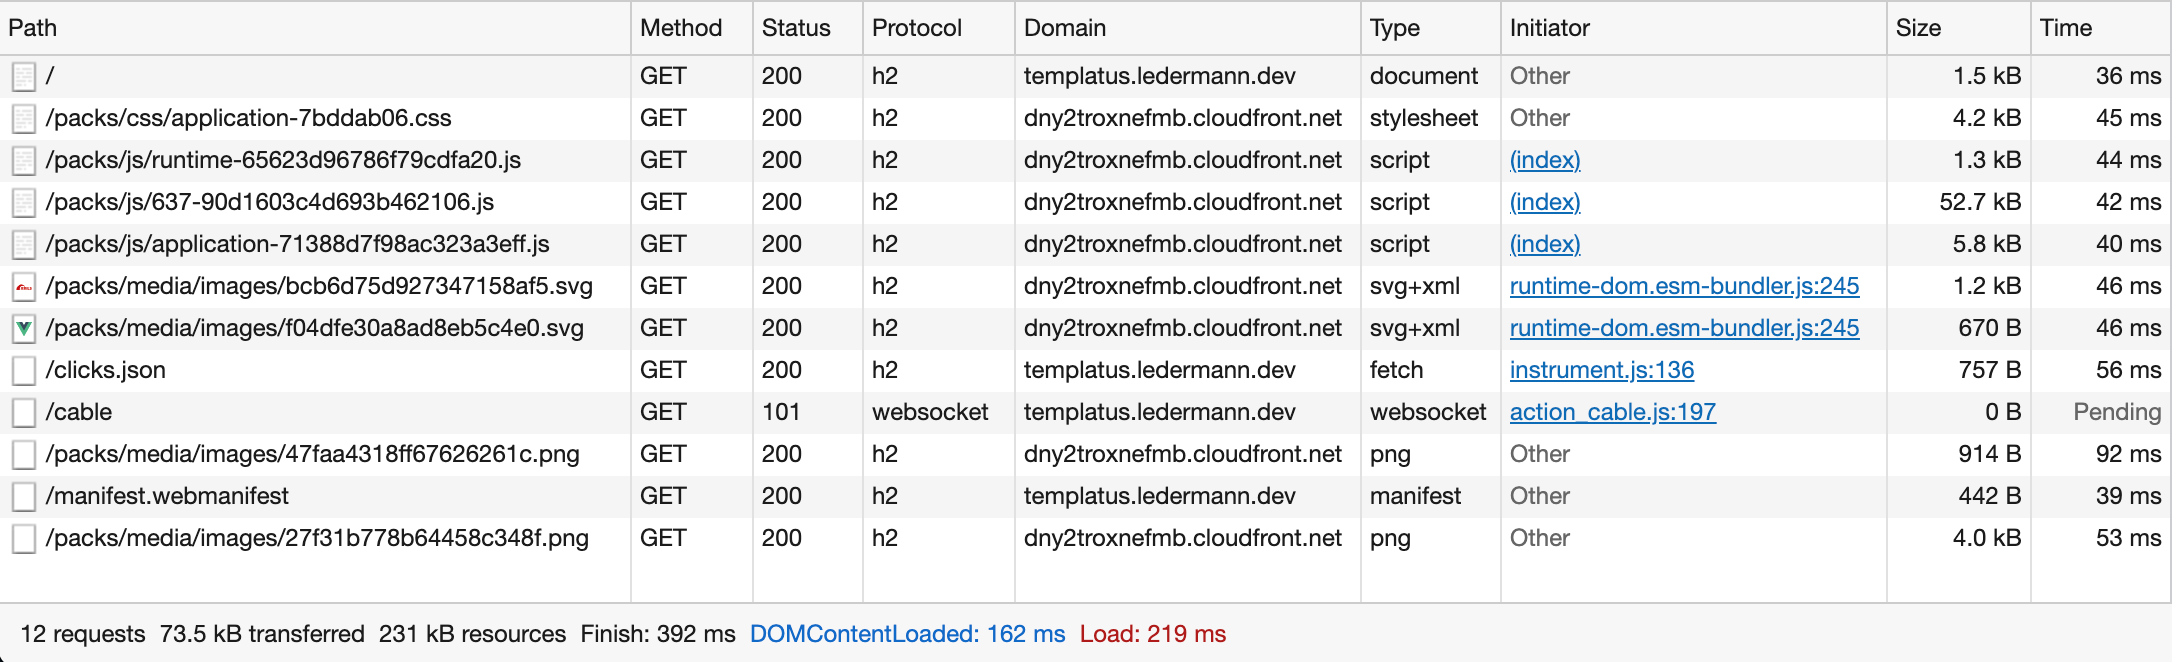
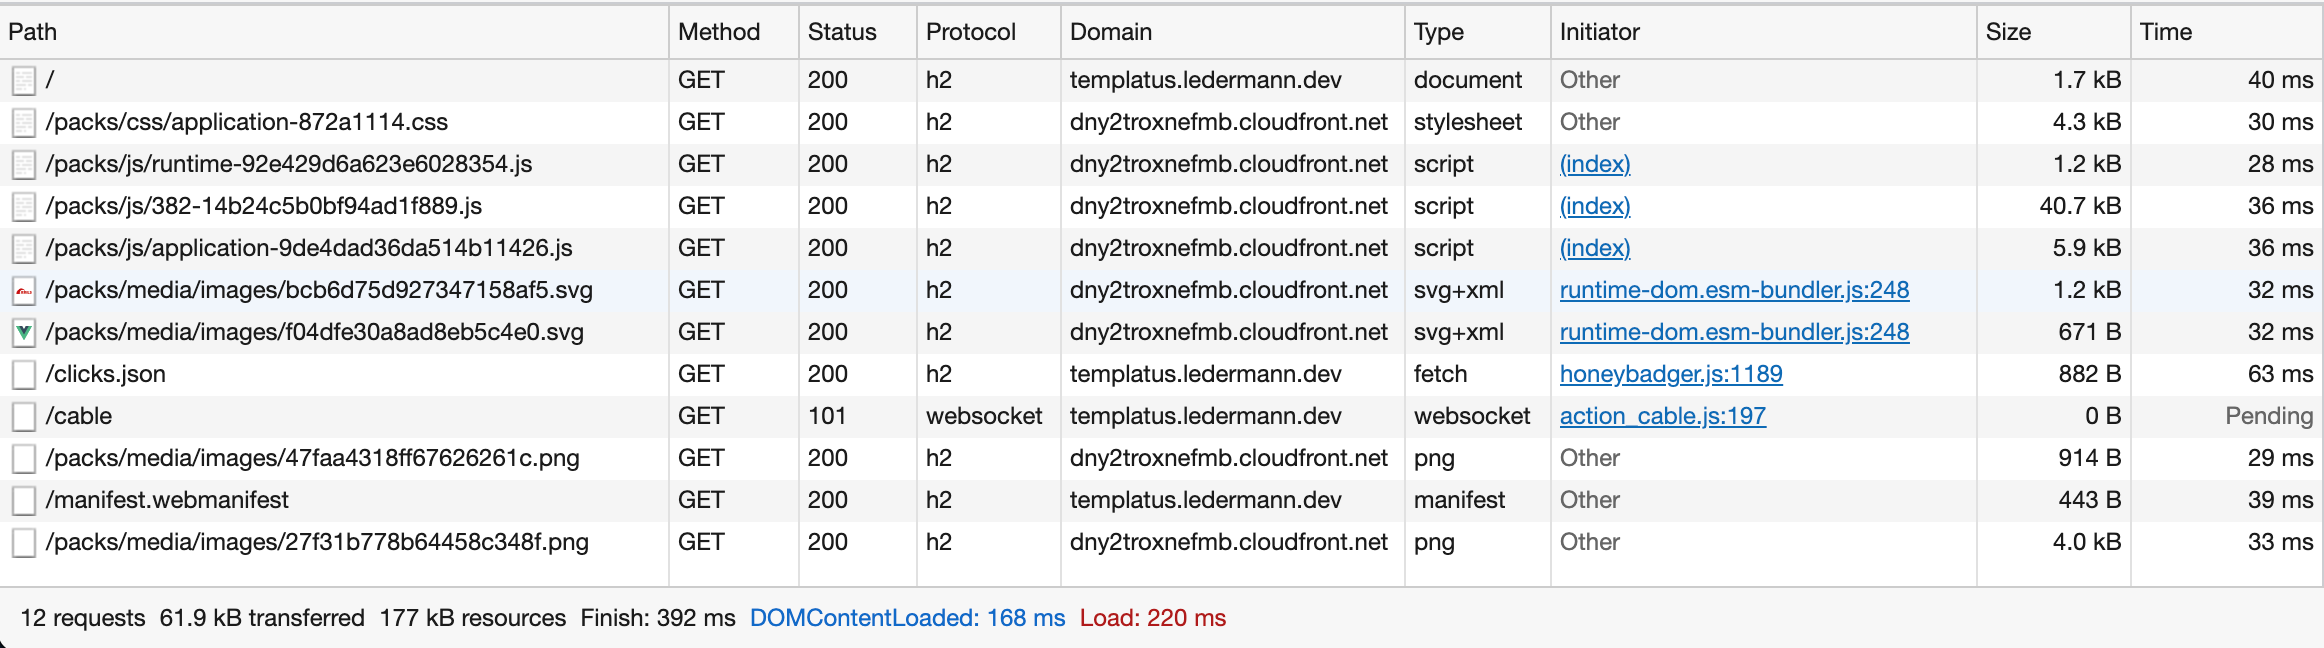
Bug tracking: Switch from Sentry to Honeybadger

diff --git a/app/packs/src/utils/honeybadger.ts b/app/packs/src/utils/honeybadger.ts
@@ -1,0 +1,51 @@
+/* eslint-disable */
+// @ts-nocheck
+
+// Vue3 support is currently not released by Honeybadger
+// https://github.com/honeybadger-io/honeybadger-vue/issues/779
+//
+// As a quickfix, this is a copy from the `vue3` branch:
+// https://github.com/honeybadger-io/honeybadger-vue/blob/vue3/src/index.js
+
+import Honeybadger from '@honeybadger-io/js';
+
+export const HoneybadgerVue = {
+  install(Vue, options) {
+    if (Vue.config.debug) {
+      console.log(`Honeybadger configured with ${options.apiKey}`);
+    }
+    const honeybadger = Honeybadger.configure(options);
+    Vue.$honeybadger = honeybadger;
+    Vue.config.globalProperties.$honeybadger = honeybadger;
+    const chainedErrorHandler = Vue.config.errorHandler;
+    const extractContext = function (vm) {
+      const options =
+        typeof vm === 'function' && vm.cid != null
+          ? vm.options
+          : vm._isVue
+          ? vm.$options || vm.constructor.options
+          : vm || {};
+      const name = options.name || options._componentTag;
+      const file = options.__file;
+      return {
+        isRoot: vm.$root === vm,
+        name: name,
+        props: options.propsData,
+        parentVnodeTag: options._parentVnode
+          ? options._parentVnode.tag
+          : undefined,
+        file: file,
+      };
+    };
+    Vue.config.errorHandler = (error, vm, info) => {
+      honeybadger.notify(error, {
+        context: { vm: extractContext(vm), info: info },
+      });
+      if (typeof chainedErrorHandler === 'function') {
+        chainedErrorHandler.call(this.Vue, error, vm, info);
+      }
+    };
+  },
+};
+
+export default HoneybadgerVue;

diff --git a/app/packs/entrypoints/application.ts b/app/packs/entrypoints/application.ts
@@ -8,22 +8,11 @@ import { store, key } from '@/store';
 import { metaContent } from '@/utils/metaContent';
 import router from '@/router';
 import App from '@/App.vue';
-import * as Sentry from '@sentry/browser';
+import HoneybadgerVue from '@/utils/honeybadger';
 import 'stylesheets/application.css';
 
 // Include all images in webpack manifest
 require.context('../images', true);
-
-const sentry_dsn = metaContent('sentry-dsn');
-if (sentry_dsn) {
-  const release = metaContent('git-commit-sha');
-
-  Sentry.init({
-    dsn: sentry_dsn,
-    release: release,
-    autoSessionTracking: false,
-  });
-}
 
 if ('serviceWorker' in navigator) {
   navigator.serviceWorker
@@ -54,6 +43,18 @@ document.addEventListener('DOMContentLoaded', () => {
   __webpack_public_path__ = metaContent('webpack-public-path'); // eslint-disable-line @typescript-eslint/no-unused-vars
 
   const app = createApp(App);
+
+  const honeybadgerApiKey = metaContent('honeybadger-api-key');
+  if (honeybadgerApiKey) {
+    const gitCommitSha = metaContent('git-commit-sha');
+
+    app.use(HoneybadgerVue, {
+      apiKey: honeybadgerApiKey,
+      environment: 'production',
+      revision: gitCommitSha,
+    });
+  }
+
   app.use(router);
   app.use(store, key);
   app.mount('#vue-app');

diff --git a/config/initializers/content_security_policy.rb b/config/initializers/content_security_policy.rb
@@ -39,9 +39,11 @@ Rails
         *[
           :self,
           "wss://#{ENV['APP_HOST']}",
-          if Rails.configuration.x.sentry.dsn
-            URI.parse(Rails.configuration.x.sentry.dsn).host
-          end,
+          (
+            if Rails.configuration.x.honeybadger.api_key
+              'https://api.honeybadger.io'
+            end
+          ),
         ].compact,
       )
       policy.manifest_src :self
@@ -51,8 +53,10 @@ Rails
     policy.form_action :self
 
     # Specify URI for violation reports
-    if Rails.configuration.x.sentry.csp
-      policy.report_uri(Rails.configuration.x.sentry.csp)
+    if Rails.configuration.x.honeybadger.api_key
+      policy.report_uri(
+        "https://api.honeybadger.io/v1/browser/csp?api_key=#{Rails.configuration.x.honeybadger.api_key}&report_only=true",
+      )
     end
   end
 

diff --git a/config/application.rb b/config/application.rb
@@ -39,8 +39,7 @@ module Templatus
     config.x.git.commit_time =
       ENV.fetch('COMMIT_TIME') { `git show -s --format=%cI`.chomp }
 
-    config.x.sentry.dsn = ENV['SENTRY_DSN']
-    config.x.sentry.csp = ENV['SENTRY_CSP']
+    config.x.honeybadger.api_key = ENV['HONEYBADGER_API_KEY']
   end
 end
 

diff --git a/README.md b/README.md
@@ -23,7 +23,7 @@ Live demo available at https://templatus.ledermann.dev
 - RuboCop (for Ruby static code analysis)
 - TypeScript (for writing better JavaScript)
 - Jest (for JavaScript testing)
-- Sentry (for error tracking in Ruby and JavaScript)
+- Honeybadger.io (for error tracking in Ruby and JavaScript)
 - Lograge (for single-line logging)
 - Docker (for production deployment, NOT for development)
 - Puma-dev (for using https in development)
@@ -79,7 +79,11 @@ https://webpagetest.org/result/210617_BiDcHH_d4cdb2af33ac2a7a9e4b66908ee3002f/
 
 ### JavaScript size
 
-194 KB of compiled JavaScript (minified, uncompressed). The biggest parts are Sentry (74KB) and Vue.js (50KB).
+144 KB of compiled JavaScript (minified, uncompressed). The largest parts are:
+
+- Vue.js + Vue Router + Vuex (83 KB)
+- Honeybadger (20 KB)
+- ActionCable (10 KB)
 
 ```
 RAILS_ENV=production SECRET_KEY_BASE=temp bin/rails webpacker:clobber webpacker:compile
@@ -96,33 +100,32 @@ assets by path media/images/ 52.6 KiB
     asset media/images/ef0c1c6c92c1b5e887fc.ico.br 1.25 KiB [emitted] [immutable] [compressed]
     asset media/images/bcb6d75d927347158af5.svg.br 796 bytes [emitted] [immutable] [compressed]
     asset media/images/f04dfe30a8ad8eb5c4e0.svg.br 224 bytes [emitted] [immutable] [compressed]
-assets by path js/*.js 194 KiB
-  asset js/355-c427ecd783fd57124a8f.js 176 KiB [emitted] [immutable] [minimized] (id hint: vendors) 4 related assets
-  asset js/application-3ac16d444a9b51436e88.js 16.8 KiB [emitted] [immutable] [minimized] (name: application) 3 related assets
-  asset js/runtime-65623d96786f79cdfa20.js 1.67 KiB [emitted] [immutable] [minimized] (name: runtime) 3 related assets
+assets by path js/*.js 144 KiB
+  asset js/382-14b24c5b0bf94ad1f889.js 126 KiB [emitted] [immutable] [minimized] (id hint: vendors) 4 related assets
+  asset js/application-9de4dad36da514b11426.js 16.8 KiB [emitted] [immutable] [minimized] (name: application) 3 related assets
+  asset js/runtime-92e429d6a623e6028354.js 1.39 KiB [emitted] [immutable] [minimized] (name: runtime) 3 related assets
 asset css/application-872a1114.css 17.5 KiB [emitted] [immutable] [minimized] (name: application) 3 related assets
 asset manifest.json 3.79 KiB [emitted] 2 related assets
-Entrypoint application 212 KiB (340 KiB) = js/runtime-65623d96786f79cdfa20.js 1.67 KiB js/355-c427ecd783fd57124a8f.js 176 KiB css/application-872a1114.css 17.5 KiB js/application-3ac16d444a9b51436e88.js 16.8 KiB 13 auxiliary assets
-orphan modules 434 KiB [orphan] 353 modules
-runtime modules 3.7 KiB 8 modules
-code generated modules 921 KiB (javascript) 47.7 KiB (asset) 27.2 KiB (css/mini-extract) [code generated]
-  javascript modules 921 KiB
-    modules by path ./node_modules/ 890 KiB 8 modules
-    modules by path ./app/packs/ 30.7 KiB
-      ./app/packs/entrypoints/application.ts + 43 modules 30.3 KiB [built] [code generated]
-      ./app/packs/images/ sync ^\.\/.*$ 378 bytes [built] [code generated]
-  asset modules 378 bytes (javascript) 47.7 KiB (asset)
-    optional modules 294 bytes (javascript) 45.4 KiB (asset) [optional] 7 modules
-    modules by path ./app/packs/images/*.svg 84 bytes (javascript) 2.33 KiB (asset)
-      ./app/packs/images/rails.svg 42 bytes (javascript) 1.96 KiB (asset) [built] [code generated]
-      ./app/packs/images/vue.svg 42 bytes (javascript) 375 bytes (asset) [built] [code generated]
+Entrypoint application 162 KiB (269 KiB) = js/runtime-92e429d6a623e6028354.js 1.39 KiB js/382-14b24c5b0bf94ad1f889.js 126 KiB css/application-872a1114.css 17.5 KiB js/application-9de4dad36da514b11426.js 16.8 KiB 13 auxiliary assets
+orphan modules 182 KiB [orphan] 292 modules
+runtime modules 3.35 KiB 7 modules
+code generated modules 721 KiB (javascript) 47.7 KiB (asset) 27.2 KiB (css/mini-extract) [code generated]
+  cacheable modules 721 KiB (javascript) 47.7 KiB (asset)
+    javascript modules 721 KiB
+      modules by path ./node_modules/@vue/ 402 KiB 4 modules
+    modules by path ./app/packs/images/ 378 bytes (javascript) 47.7 KiB (asset)
+      optional modules 294 bytes (javascript) 45.4 KiB (asset) [optional] 7 modules
+      modules by path ./app/packs/images/*.svg 84 bytes (javascript) 2.33 KiB (asset)
+        ./app/packs/images/rails.svg 42 bytes (javascript) 1.96 KiB (asset) [built] [code generated]
+        ./app/packs/images/vue.svg 42 bytes (javascript) 375 bytes (asset) [built] [code generated]
+  ./app/packs/images/ sync ^\.\/.*$ 378 bytes [built] [code generated]
   css ./node_modules/css-loader/dist/cjs.js??clonedRuleSet-3.use[1]!./node_modules/postcss-loader/dist/cjs.js??clonedRuleSet-3.use[2]!./app/packs/stylesheets/application.css 27.2 KiB [code generated]
-webpack 5.39.1 compiled successfully in 7187 ms
+webpack 5.39.1 compiled successfully in 6809 ms
 ```
 
 ### Network transfer
 
-Small footprint: The demo application transfers only 74Kb of data on the first visit.
+Small footprint: The demo application transfers only 62Kb of data on the first visit.
 
 ![Network](network.png)
 
